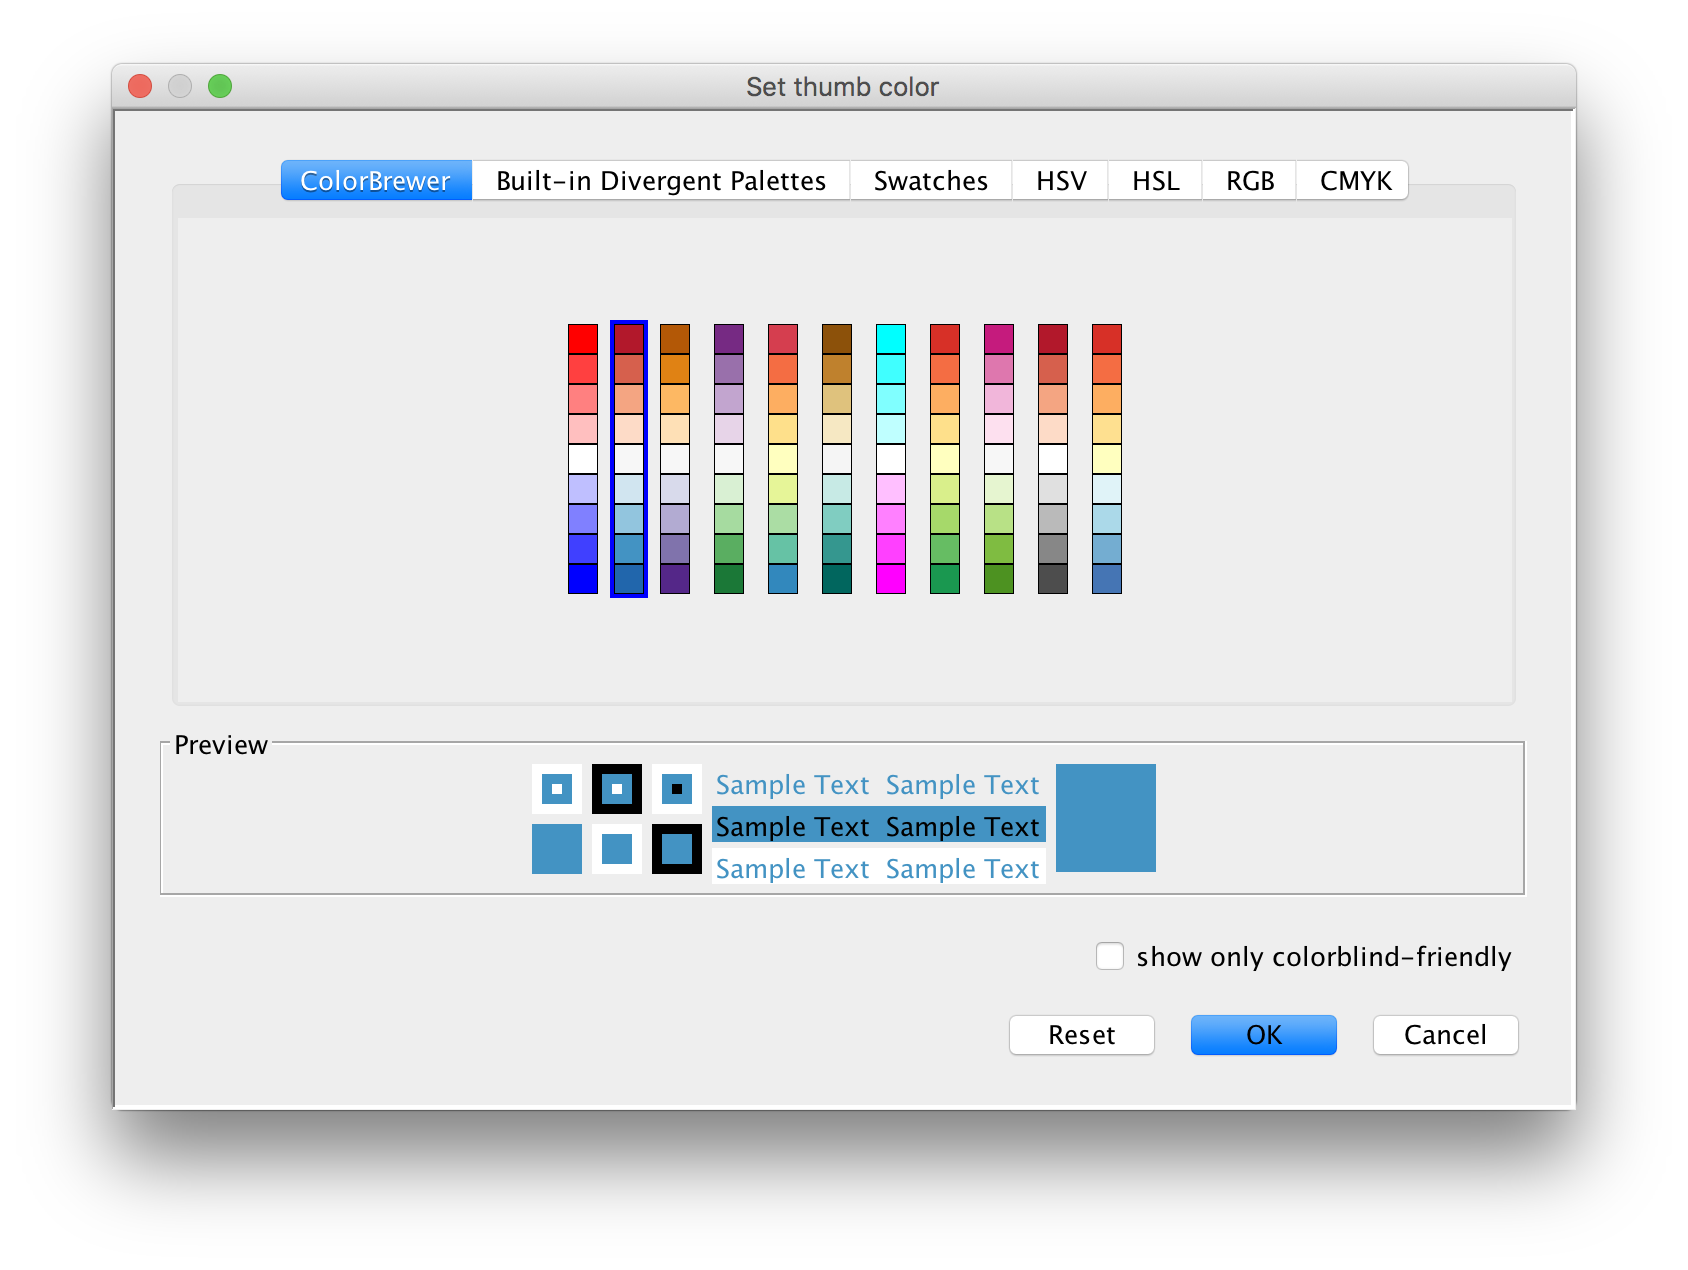
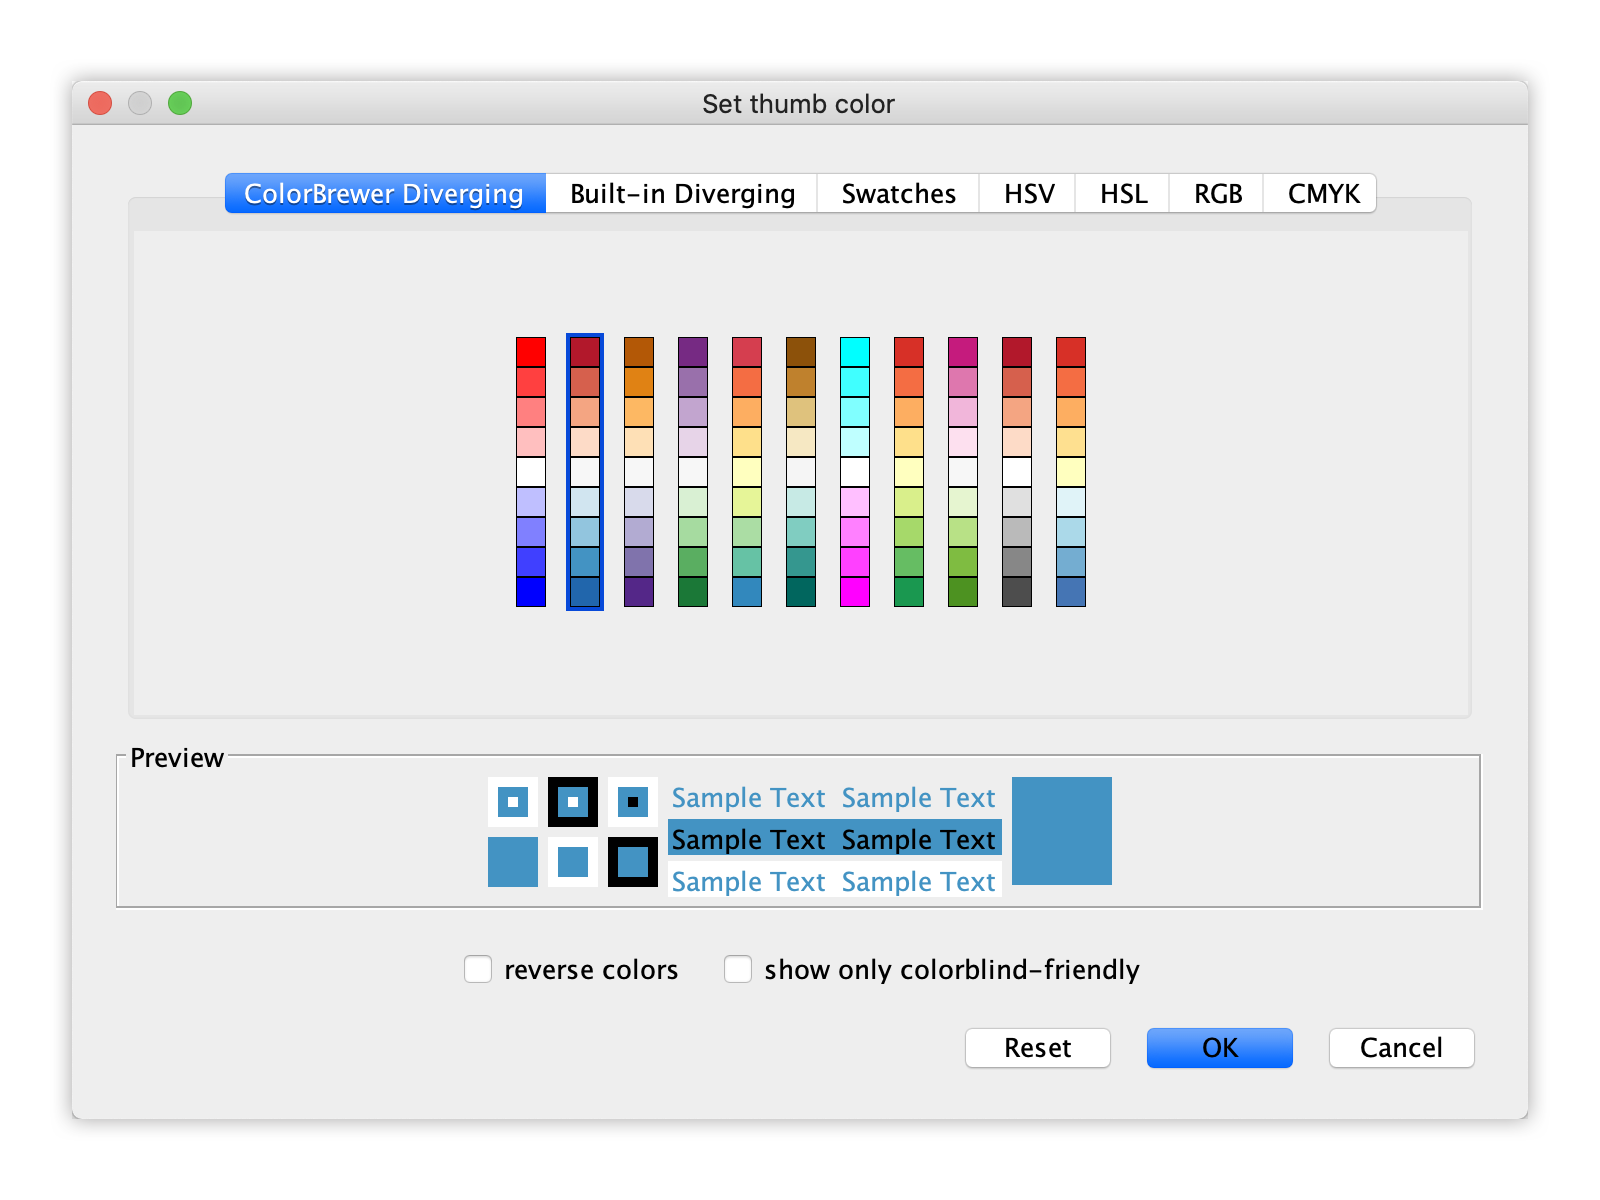
updated screenshots for 3.9

Changed region(s): [[0.0312, 0.0617, 0.9688, 0.925], [0.3125, 0.2467, 0.6875, 0.5242], [0.3125, 0.8017, 0.4375, 0.8325]]

diff --git a/protocols/advanced-palettes/index.html b/protocols/advanced-palettes/index.html
@@ -44,15 +44,15 @@
         </ul>
 <p>By default, the following palettes are provided:</p>
         <ul>
-            <li><a href="https://colorbrewer2.org/" target="_blank">ColorBrewer</a>, provides all three palette types</li>
-            <li><a href="https://cran.r-project.org/web/packages/viridis/vignettes/intro-to-viridis.html" target="_blank">Viridis</a>, provides sequential palettes</li>
-            <li>Built-in: built-in Rainbow, Rainbow OSC, and Random qualitative palettes, and a variety of divergent palettes</li>
+            <li><a href="https://colorbrewer2.org/" target="_blank">ColorBrewer</a>: provides all three palette types</li>
+            <li><a href="https://cran.r-project.org/web/packages/viridis/vignettes/intro-to-viridis.html" target="_blank">Viridis</a>: provides sequential palettes</li>
+            <li>Built-in: built-in Rainbow palettes, Rainbow OSC, and Random qualitative palettes.</li>
         </ul>
 </section>
                 
 <section>
     <h1>Continuous Mapping Palette</h1>
-    <p>The palette used for the default continuous mapper is the <b>Red-Blue</b> BrewerColor palette. To switch to a different BrewerColor palette, click the <highlight>Current Palette</highlight> button at the top.</p>
+    <p>The palette used for the default continuous mapper is the <b>Red-Blue</b> BrewerColor palette. To switch to a different BrewerColor palette, click the <highlight>Current Palette</highlight> button at the top. It is also possible to reverse any palette by selecting the <highlight>reverse colors</highlight>.</p>
     
     <div style="float:left; width:55%">
     <img class="plain" src="../../presentations/modules/advanced-visualization/ContinuousMapper.png"/>
